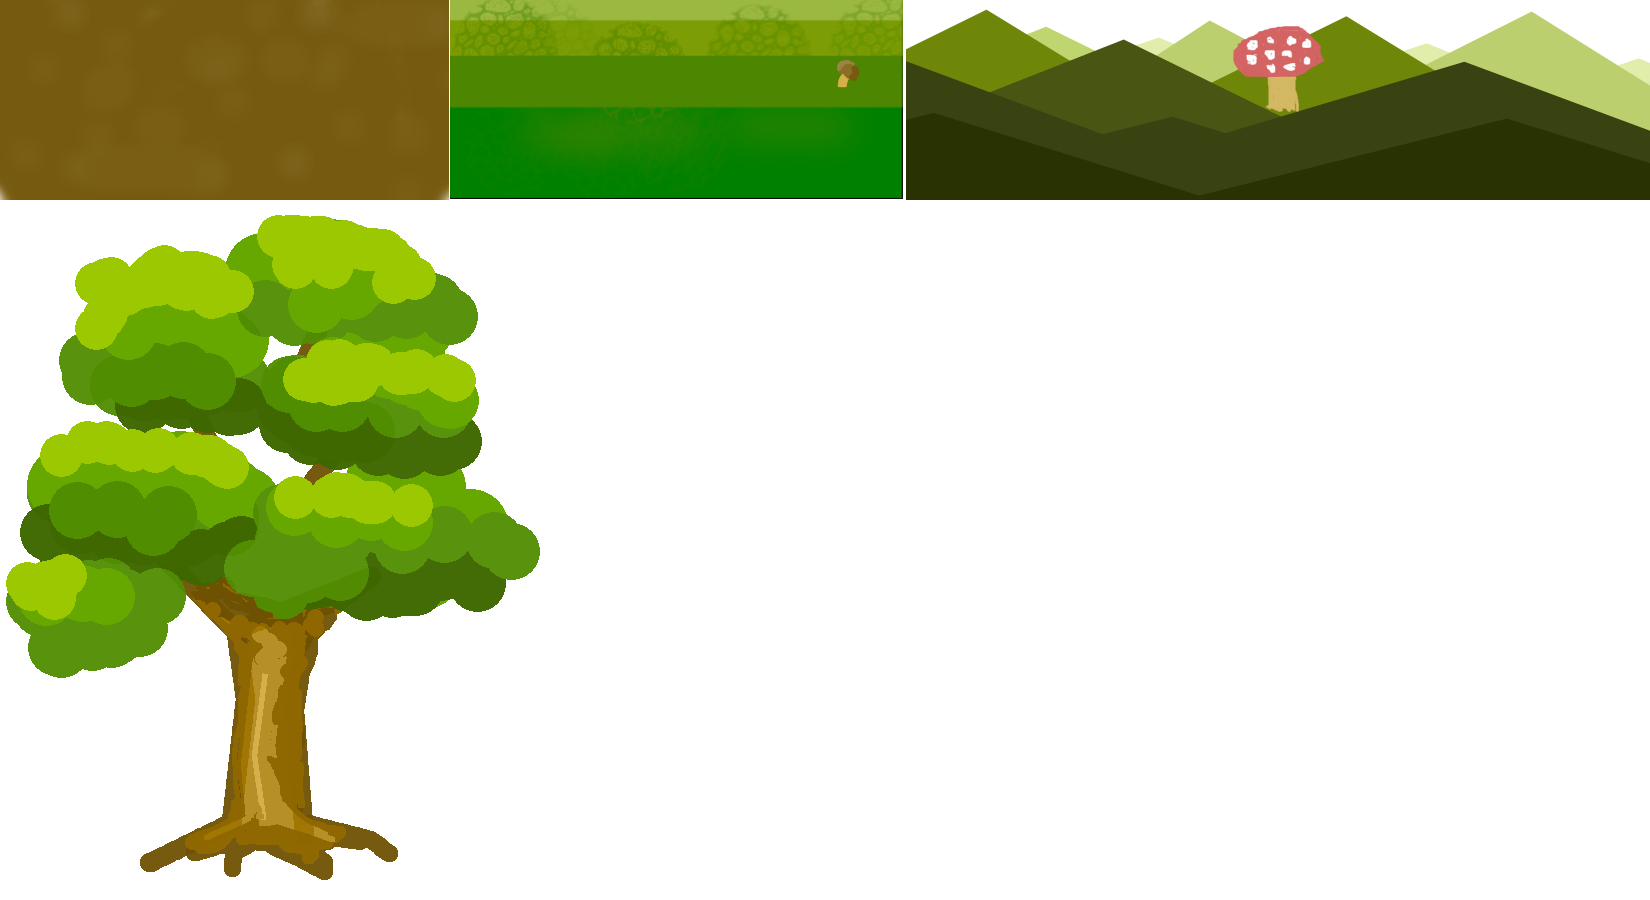
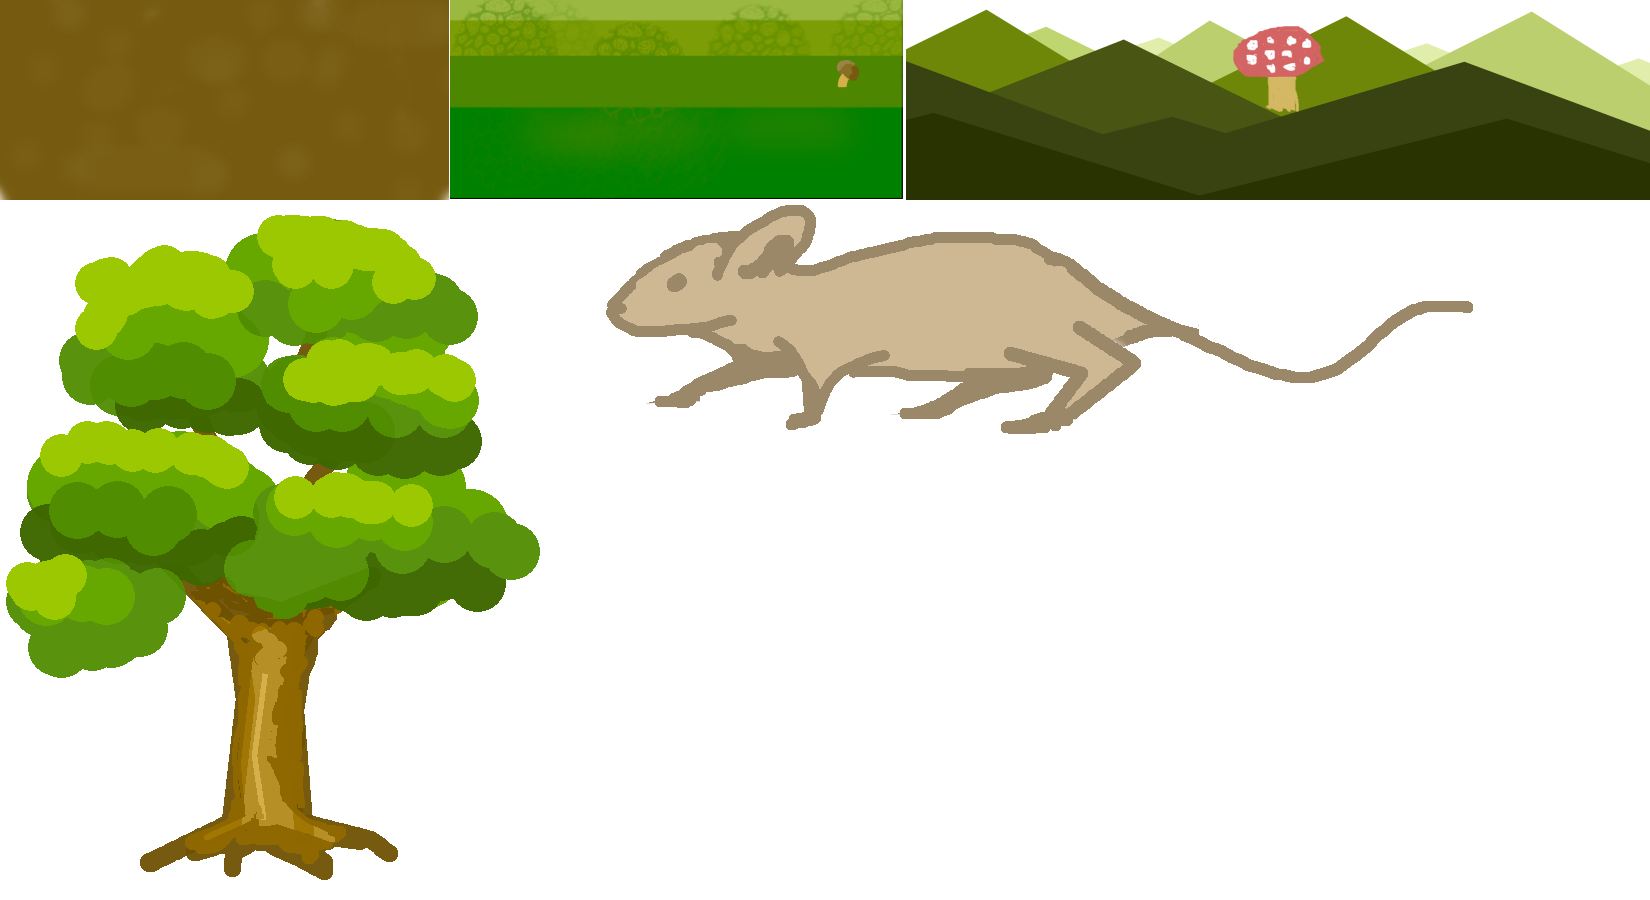
UIX + some temporary physics solutions.

Changed region(s): [[0.3709, 0.2178, 0.8345, 0.4978], [0.8345, 0.3111, 0.8964, 0.3733]]

diff --git a/main.py b/main.py
@@ -1,6 +1,8 @@
 #!/usr/bin/python3
 
+from functools import partial
 import math
+from random import randint
 
 from kivy.app import App
 from kivy.clock import Clock
@@ -13,8 +15,8 @@ from kivy.core.window import Window
 from kivent_core.managers.resource_managers import texture_manager
 
 from init import InitMixin
-from game_systems import ParallaxSystem, PhysicsSystem
-from settings import LEVEL_WIDTH, LEVEL_HEIGHT
+from game_systems import PhysicsSystem, ParallaxSystem
+from settings import LEVEL_WIDTH, LEVEL_HEIGHT, MOUSE_LIFESPAN
 
 
 Factory.register('ParallaxSystem', cls=ParallaxSystem)
@@ -25,18 +27,22 @@ texture_manager.load_atlas('data/assets/character_objects.atlas')
 
 class PopielGame(Widget, InitMixin):
 
+    # Scopes determine how whole level is moving together.
     x_scope = NumericProperty(0)
     y_scope = NumericProperty(0)
     character_x = NumericProperty(0)
     character_jump = BooleanProperty(False)
-    character_entity_id = NumericProperty(None)  # TODO
+    character_entity_id = NumericProperty(None)
 
     def __init__(self, **kwargs):
         super().__init__(**kwargs)
         self.gameworld.init_gameworld(
-            ['renderer', 'position', 'parallax', 'physics', 'camera1'],
+            ['renderer', 'position', 'physics', 'camera1'],
             callback=self.init_game)
+
         Clock.schedule_interval(self.clock_callback, 0.5)
+        Clock.schedule_interval(self.generate_mice, 3.0)
+        Clock.schedule_interval(self.generate_mice, 4.4)
 
     def init_game(self):
         self.setup_states()
@@ -67,6 +73,7 @@ class PopielGame(Widget, InitMixin):
             'mountains': (400.0, 100.0),
             'character1.1': (100.0, 200.0),
             'character1.2': (100.0, 200.0),
+            'mouse1': (200.0, 50.0),
         }
 
         for model, size in textures.items():
@@ -74,29 +81,40 @@ class PopielGame(Widget, InitMixin):
                 'vertex_format_4f', size[0], size[1], model, '%s-4' % model
             )
 
-    def on_touch_down(self, touch):
-        (x, y) = touch.pos
-        if x > self.size[0] / 2:
-            self.x_scope -= 0.5
-            self.character_x -= 0.1
-        elif x < self.size[0] / 2:
+    def move(self, direction):
+        if direction == 'left':
             self.x_scope += 0.5
+        elif direction == 'right':
+            self.x_scope -= 0.5
 
-        if touch.is_double_tap:
-            self.character_jump = True
+    def jump(self):
+        self.character_jump = True
 
     def init_models(self):
         init_entity = self.gameworld.init_entity
-
-        self.init_model_serial('mountains', 400, 200, 185, 1.0, init_entity)
+        self.init_model_serial('mountains', 400, 200, 220, 1.05, init_entity)
+        self.init_model_serial('mountains', 400, 200, 200, 1.1, init_entity)
         self.init_model('tree1', 1500, 500, 300, 400, 3.0, init_entity)
-        self.character_entity_id = self.init_model('character1.1', 500, 200, 100, 100, 4.0, init_entity, physics_active=True)
+        self.init_model('mouse1', 2000, 400, 200, 50, 4.0, init_entity, physics_active=True)
 
+        self.character_entity_id = self.init_model('character1.1', 700, 100, 100, 100, 4.0, init_entity, physics_active=True)
+
+        self.gameworld.entity_to_focus = self.character_entity_id
         self.init_model_serial('ground', 200, 100, 200, 4.0, init_entity, y_callback=lambda x: math.degrees(math.sin(x / 4)) + 50)
         self.init_model_serial('grass', 100, 100, 100, 4.0, init_entity, walkable=True, y_callback=lambda x: math.degrees(math.sin(x / 4)) + 150)
+        self.init_model('grass', 200, 400, 200, 50, 4.0, init_entity, physics_active=True, walkable=True)
 
-        self.init_model('tree1', 700, 400, 700, 900, 7.0, init_entity)
+        self.init_model('grass', 700, 400, 200, 50, 4.0, init_entity, physics_active=True, walkable=True)
+
+
+        self.init_model('tree1', 700, 500, 700, 900, 7.0, init_entity)
         self.init_model('tree1', 2000, 400, 700, 900, 7.0, init_entity)
+
+    def generate_mice(self, dt):
+        entity_id = self.init_model('mouse1', randint(1000, 2000), 400, 200, 50, 4.0, self.gameworld.init_entity, physics_active=True)
+
+        # Count down the time to remove mouse entity.
+        Clock.schedule_once(partial(self.gameworld.timed_remove_entity, entity_id), MOUSE_LIFESPAN)
 
     def update(self, dt):
         self.gameworld.update(dt)
@@ -108,19 +126,7 @@ class PopielGame(Widget, InitMixin):
             self.x_scope += 0.2
         elif self.x_scope < 1.0 and self.x_scope > -1.0:
             self.x_scope = 0
-
-
-class DebugPanel(Widget):
-
-    fps = StringProperty(None)
-
-    def __init__(self, **kwargs):
-        super().__init__(**kwargs)
-        Clock.schedule_once(self.update_fps)
-
-    def update_fps(self, dt):
-        self.fps = '%s' % int(Clock.get_fps())
-        Clock.schedule_once(self.update_fps, 0.05)
+        self.character_jump = False
 
 
 class PopielApp(App):

diff --git a/game_systems.py b/game_systems.py
@@ -1,9 +1,7 @@
 
-from operator import attrgetter
-
 from kivent_core.systems.gamesystem import GameSystem
 
-from settings import JUMP_HEIGHT
+from settings import GRAVITY, JUMP_HEIGHT
 
 
 class ParallaxSystem(GameSystem):
@@ -14,13 +12,20 @@ class ParallaxSystem(GameSystem):
 
     def update(self, dt):
         entities = self.gameworld.entities
+        character_x = 0
         for component in self.components:
             if component is not None:
                 entity_id = component.entity_id
                 entity = entities[entity_id]
-                pos_component = entity.position
-                pos_component.x += self.x_scope * component.layer
-                pos_component.y += self.y_scope * component.layer
+
+                if entity.entity_id == self.character_entity_id:
+                    character_x = entity.position.x
+
+                if character_x >= 900 and character_x <= 1600:
+
+                    pos_component = entity.position
+                    pos_component.x += self.x_scope * component.layer
+                    pos_component.y += self.y_scope * component.layer
 
 
 class PhysicsSystem(GameSystem):
@@ -32,7 +37,8 @@ class PhysicsSystem(GameSystem):
     def character_motion(self, entity1):
         render_comp = entity1.renderer
 
-        entity1.position.x -= self.x_scope / 10
+        entity1.position.x -= self.x_scope / 10.0
+        self.character_x = entity1.position.x
 
         if self.x_scope <= 0:
             render_comp.texture_key = 'character1.1'
@@ -50,24 +56,39 @@ class PhysicsSystem(GameSystem):
             if entity1.entity_id == self.character_entity_id:
                 self.character_motion(entity1)
 
+            if 'mouse' in entity1.renderer.texture_key:
+                entity1.position.x -= 0.1
+
             # Gravity
-            entity1.position.y -= 0.2
+            entity1.position.y -= GRAVITY
 
-            ent2_left_margin = entity2.position.x - entity2.physics.width / 2
-            ent2_right_margin = entity2.position.x + entity2.physics.width / 2
+            # Whether entity is above a tile.
+            ent2_left_margin = entity2.position.x - entity2.physics.width / 2.0
+            ent2_right_margin = entity2.position.x + entity2.physics.width / 2.0
 
-            if (entity1.position.y < entity2.position.y) and \
-               (entity1.position.x > ent2_left_margin and entity1.position.x < ent2_right_margin):
-                entity1.position.y = entity2.position.y
+            if (entity1.position.x >= ent2_left_margin and entity1.position.x <= ent2_right_margin):
+
+                if entity1.position.y <= entity2.position.y + 100.0:
+
+                    # Collision
+                    if entity1.position.y <= entity2.position.y:
+                        entity1.position.x = ent2_right_margin
+
+                    # On the top of the object
+                    else:
+                        entity1.position.y = entity2.position.y + 100.0
 
     def update(self, dt):
         entities = self.gameworld.entities
         components = self.components
 
         # TODO: optimize that.
-        for component in components:
+        for component in [c for c in components if c and c.active]:
             entity1 = entities[component.entity_id]
-            nearby_components = [c for c in components if component.x > c.width / 2 and component.x < c.x + c.width / 2]
+            nearby_components = [
+                c for c in components if c and c.walkable
+                # and component.x >= c.x - c.width # and component.x <= c.x + c.width
+            ]
             for component2 in nearby_components:
                 entity2 = entities[component2.entity_id]
 

diff --git a/init.py b/init.py
@@ -10,7 +10,7 @@ class InitMixin(object):
 
     @staticmethod
     def init_model_serial(texture, width, height, y, layer, init_entity_callback, walkable=False, y_callback=None):
-        for x in range(0, LEVEL_WIDTH * int(layer), width):
+        for x in range(0, LEVEL_WIDTH * (int(layer) + 1), width):
             if y_callback:
                 y = y_callback(x)
 
@@ -26,7 +26,7 @@ class InitMixin(object):
             init_entity_callback(element, ['position', 'renderer', 'parallax', 'physics'])
 
     @staticmethod
-    def init_model(texture, x, y, width, height, layer, init_entity_callback, physics_active=False):
+    def init_model(texture, x, y, width, height, layer, init_entity_callback, physics_active=False, walkable=False):
 
         element = {
             'position': (x, y),
@@ -34,7 +34,7 @@ class InitMixin(object):
             'renderer': {'texture': texture, 'model_key': '%s-4' % texture},
             'physics': {
                 'x': x, 'y': y, 'width': width, 'height': height,
-                'active': physics_active, 'walkable': False
+                'active': physics_active, 'walkable': walkable
             },
         }
         return init_entity_callback(element, ['position', 'renderer', 'parallax', 'physics'])

diff --git a/panel.py b/panel.py
@@ -1,0 +1,21 @@
+from kivy.clock import Clock
+from kivy.properties import StringProperty
+from kivy.uix.widget import Widget
+
+
+class ControlPanel(Widget):
+
+    pass
+
+
+class DebugPanel(Widget):
+
+    fps = StringProperty(None)
+
+    def __init__(self, **kwargs):
+        super().__init__(**kwargs)
+        Clock.schedule_once(self.update_fps)
+
+    def update_fps(self, dt):
+        self.fps = '%s' % int(Clock.get_fps())
+        Clock.schedule_once(self.update_fps, 0.05)

diff --git a/settings.py b/settings.py
@@ -2,4 +2,8 @@
 LEVEL_WIDTH = 1000
 LEVEL_HEIGHT = 600
 
+GRAVITY = 0.5
+
 JUMP_HEIGHT = 200.0
+
+MOUSE_LIFESPAN = 10.0

diff --git a/mouse.py b/mouse.py
@@ -1,0 +1,4 @@
+
+
+class Mouse(object):
+    pass
